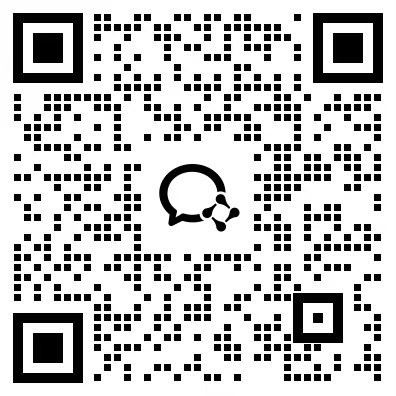
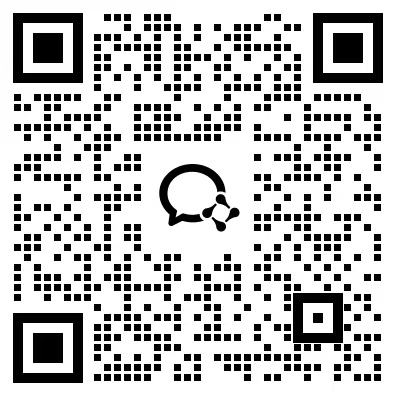
fix: refresh community QR code

diff --git a/site/index.html b/site/index.html
@@ -10,7 +10,7 @@
     />
     <meta name="color-scheme" content="light" />
     <meta name="theme-color" content="#ffffff" />
-    <meta name="dwg-assets-version" content="20260901-2" />
+    <meta name="dwg-assets-version" content="20260904-1" />
     <meta property="og:type" content="website" />
     <meta property="og:title" content="豆包工作蓝皮书" />
     <meta
@@ -31,9 +31,9 @@
         visibility: hidden;
       }
     </style>
-    <link rel="stylesheet" href="css/base.css?v=20260901-2" />
-    <link rel="stylesheet" href="css/layout.css?v=20260901-2" />
-    <link rel="stylesheet" href="css/article.css?v=20260901-2" />
+    <link rel="stylesheet" href="css/base.css?v=20260904-1" />
+    <link rel="stylesheet" href="css/layout.css?v=20260904-1" />
+    <link rel="stylesheet" href="css/article.css?v=20260904-1" />
   </head>
   <body class="is-home is-booting">
     <a class="skip-link" href="#content">跳到正文</a>
@@ -109,7 +109,7 @@
 
     <main id="content"><div id="app" hidden></div></main>
 
-    <script src="js/vendor/qrcode.js?v=20260901-2"></script>
-    <script type="module" src="js/app.js?v=20260901-2"></script>
+    <script src="js/vendor/qrcode.js?v=20260904-1"></script>
+    <script type="module" src="js/app.js?v=20260904-1"></script>
   </body>
 </html>

diff --git a/site/js/app.js b/site/js/app.js
@@ -5,13 +5,13 @@
    导航靠页眉右上的胶囊、目录页，以及每篇文末的下一节链接。
    ============================================================ */
 
-import { renderMarkdown, escapeHtml, plainText } from "./markdown.js?v=20260901-2";
+import { renderMarkdown, escapeHtml, plainText } from "./markdown.js?v=20260904-1";
 
 const READ_KEY = "dwg.read";
 const RESUME_KEY = "dwg.resume";
 const RAIL_KEY = "dwg.rail"; /* 左侧章节目录："1" 固定展开，其余（含首次）收起悬浮 */
 const ASSET_VERSION =
-  document.querySelector('meta[name="dwg-assets-version"]')?.content || "20260901-2";
+  document.querySelector('meta[name="dwg-assets-version"]')?.content || "20260904-1";
 const versionedAsset = (path) => `${path}?v=${encodeURIComponent(ASSET_VERSION)}`;
 
 const dom = {

diff --git a/site/assets/ASSET-PROVENANCE.md b/site/assets/ASSET-PROVENANCE.md
@@ -1,6 +1,6 @@
 # 网站素材来源记录
 
-更新时间：2026-09-01。
+更新时间：2026-09-04。
 
 这份文件记录 `site/assets/` 中网站界面素材的来源与生成方式。正文引用的图片和视频位于 `site/media/`，由公开内容快照统一管理，不在这里逐项重复。
 
@@ -16,10 +16,10 @@
 ## 交流群二维码
 
 - 文件：`qr-group.png`
-- 来源：项目维护者于 2026-09-01 在本次修改中直接提供
-- 处理：保持原始 PNG 字节不变，未裁切、未重绘、未生成
+- 来源：项目维护者于 2026-09-04 在本次修改中直接提供
+- 处理：将用户提供的 396 × 396 JPEG 转为 PNG；未裁切、未缩放、未重绘
 - 尺寸：396 × 396
[2 lines of base64/hex data omitted]
 
 二维码可能随群状态变化而失效。替换时应同步更新本节的日期、尺寸和哈希，并在发布后实际扫码验收。
 
